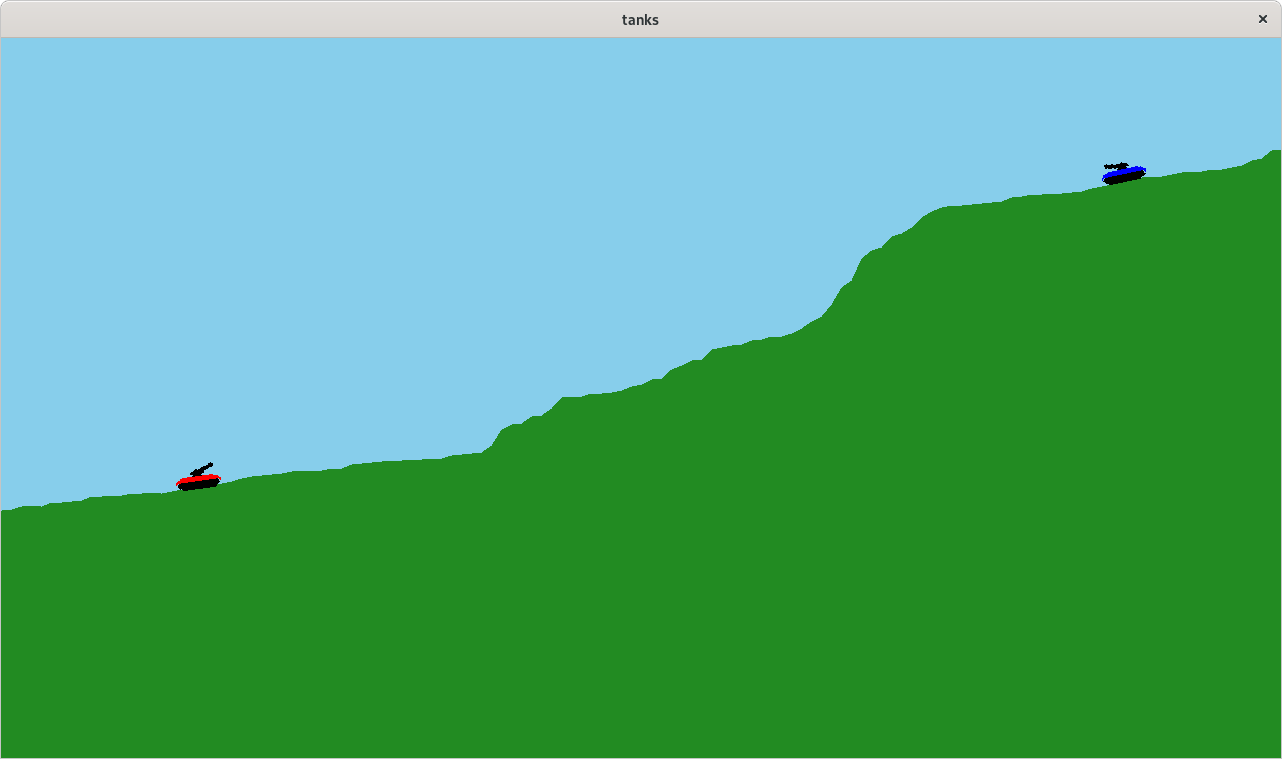
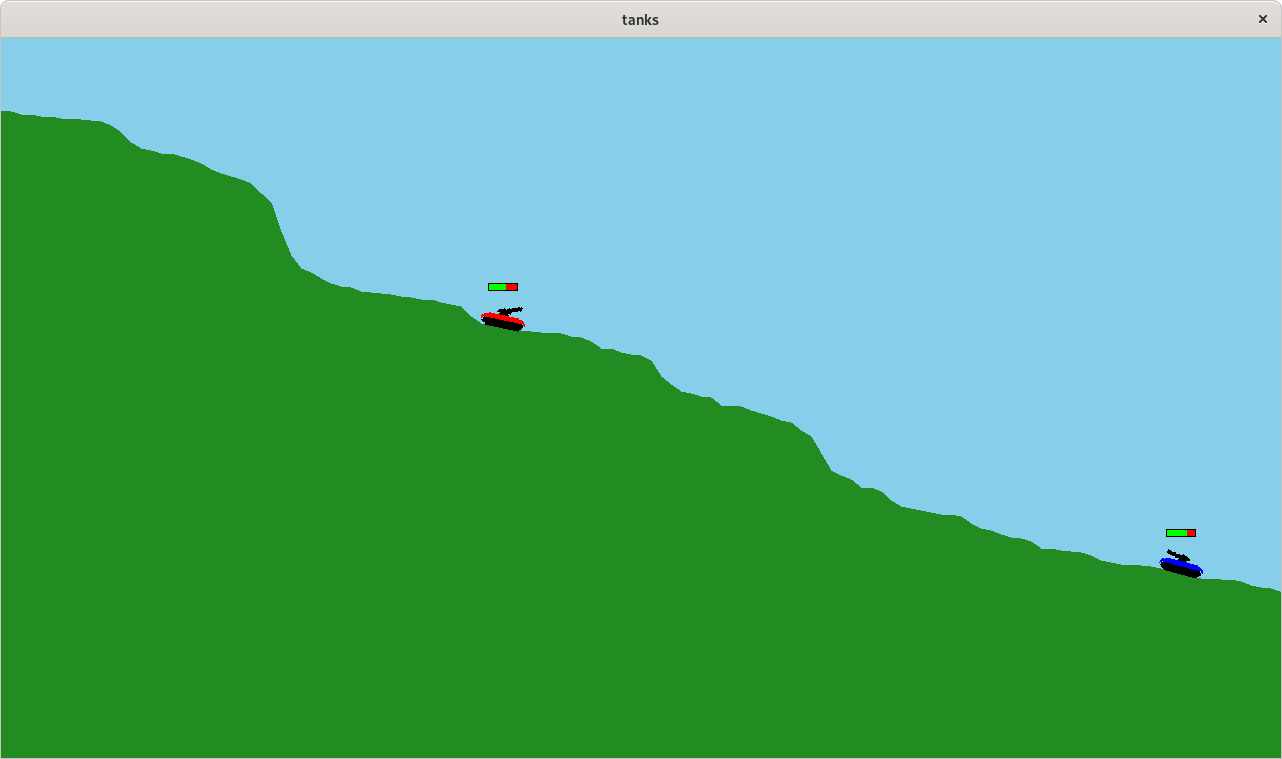
Health bars

diff --git a/src/tank.c b/src/tank.c
@@ -3,14 +3,17 @@
 //
 
 #include <math.h>
+#include <stdio.h>
 
 #include "main.h"
 #include "terrain/terrain.h"
 #include "tank.h"
+#include "bullet.h"
 
 static void calculateTankAngle(tank_s* tank, terrain_s* terrain);
 static void updateTankHitbox(tank_s* tank);
 static float calculateLinearSlope(float x1, float y1, float x2, float y2);
+static void updateTankHealthBar(tank_s* tank);
 
 void teleportTank(tank_s* tank, int x, terrain_s* terrain)
 {
@@ -27,6 +30,9 @@ void teleportTank(tank_s* tank, int x, terrain_s* terrain)
 
     // update hitbox
     updateTankHitbox(tank);
+
+    // update health bar
+    updateTankHealthBar(tank);
 }
 
 void moveTank(tank_s* tank, float amount, terrain_s* terrain)
@@ -51,13 +57,17 @@ void moveTank(tank_s* tank, float amount, terrain_s* terrain)
 
     // update hitbox
     updateTankHitbox(tank);
+
+    // update health bar
+    updateTankHealthBar(tank);
 }
 
 void applyDamageToTank(tank_s* tank, int damage)
 {
-    if (!tank->isInvincible)
+    if (!tank->isInvincible && tank->health > 0)
     {
         tank->health -= damage;
+        updateTankHealthBar(tank);
         printf("tank %d health: %d\n", tank->id, tank->health);
     }
 }
@@ -240,6 +250,21 @@ void resetAllTanksHitboxStates(tank_s tanks[])
     }
 }
 
+static void updateTankHealthBar(tank_s* tank)
+{
+    tank->healthBar.fRect.x = tank->bottomCenter.x + 9.0f * (float)sin(degToRad(tank->angle)) - tank->healthBar.fRect.w / 2;
+    tank->healthBar.fRect.y = (float)tank->rect.y;
+    tank->healthBar.rect.x = (int)tank->healthBar.fRect.x;
+    tank->healthBar.rect.y = (int)tank->healthBar.fRect.y;
+
+    tank->healthBar.filledFRect = tank->healthBar.fRect;
+    tank->healthBar.filledFRect.w = (float)tank->health / 100.0f * tank->healthBar.fRect.w;
+    tank->healthBar.filledRect.x = (int)tank->healthBar.filledFRect.x;
+    tank->healthBar.filledRect.y = (int)tank->healthBar.filledFRect.y;
+    tank->healthBar.filledRect.w = (int)tank->healthBar.filledFRect.w;
+    tank->healthBar.filledRect.h = (int)tank->healthBar.filledFRect.h;
+}
+
 static void calculateTankAngle(tank_s* tank, terrain_s* terrain)
 {
     int x1, x2, y1, y2;
@@ -314,7 +339,6 @@ static void updateTankHitbox(tank_s* tank)
     topRightVectorAngle += tankAngleRad;
     topLeftVectorAngle += tankAngleRad;
     float bottomLeftVectorAngle = -(float)M_PI + tankAngleRad; // angle of bottom center to bottom left vector
-
 
     untranslatedHitBox.bottomLeft.x = bottomLeftVectorLength * cosf(bottomLeftVectorAngle);
     untranslatedHitBox.bottomLeft.y = bottomLeftVectorLength * sinf(bottomLeftVectorAngle);

diff --git a/src/main.c b/src/main.c
@@ -105,9 +105,6 @@ static void initGame(SDL_Renderer** ren, terrain_s** terrain, textures_s* textur
     textures->tank[0].gun.angle = 80;
     textures->tank[0].gun.fAngle = (float)textures->tank[0].gun.angle;
 
-    // tank[0] spawn point
-    teleportTank(&textures->tank[0], 150, *terrain);
-
     // init tank[1]
     buffer = SDL_LoadBMP("../resources/images/blue_tank.bmp");
     if (buffer == NULL)
@@ -150,9 +147,6 @@ static void initGame(SDL_Renderer** ren, terrain_s** terrain, textures_s* textur
     textures->tank[1].gun.fAngle = (float)textures->tank[1].gun.angle;
     textures->tank[1].gun.relativePosY = textures->tank[0].gun.relativePosY;
 
-    // tank[1] spawn point
-    teleportTank(&textures->tank[1], 1280 - 150, *terrain);
-
     // init bullet
     textures->bullet.rect.w = 3;
     textures->bullet.rect.h = 3;
@@ -167,6 +161,24 @@ static void initGame(SDL_Renderer** ren, terrain_s** terrain, textures_s* textur
 
     // init hitboxes
     resetAllTanksHitboxStates(textures->tank);
+
+    // init health bars
+    textures->tank[0].healthBar.fRect.w = 30;
+    textures->tank[0].healthBar.fRect.h = 8;
+    textures->tank[0].healthBar.rect.w = 30;
+    textures->tank[0].healthBar.rect.h = 8;
+
+    textures->tank[1].healthBar.fRect.w = 30;
+    textures->tank[1].healthBar.fRect.h = 8;
+    textures->tank[1].healthBar.rect.w = 30;
+    textures->tank[1].healthBar.rect.h = 8;
+
+    // Set tank spawn points
+    // tank[0] spawn point
+    teleportTank(&textures->tank[0], 150, *terrain);
+
+    // tank[1] spawn point
+    teleportTank(&textures->tank[1], 1280 - 150, *terrain);
 }
 
 static void quitGame(textures_s* textures, terrain_s** terrain)

diff --git a/src/render.c b/src/render.c
@@ -12,6 +12,7 @@
 
 static void renderArray(SDL_Window** win, SDL_Renderer** ren, int** array, int x, int y, int width, int height, SDL_Color fg, SDL_Color bg);
 static void renderTankHitboxes(SDL_Renderer** ren, tank_s* tank);
+static void renderTankHealthBar(SDL_Renderer** ren, tank_s* tank);
 
 void render(SDL_Window** win, SDL_Renderer** ren, terrain_s* terrain, textures_s* textures)
 {
@@ -99,7 +100,24 @@ void render(SDL_Window** win, SDL_Renderer** ren, terrain_s* terrain, textures_s
                      &tankCenterPoint,
                      SDL_FLIP_NONE);
 
+    // Render health bars
+    renderTankHealthBar(ren, &textures->tank[0]);
+    renderTankHealthBar(ren, &textures->tank[1]);
+
     SDL_RenderPresent(*ren);
+}
+
+static void renderTankHealthBar(SDL_Renderer** ren, tank_s* tank)
+{
+    SDL_SetRenderDrawColor(*ren, 255, 0, 0, 255);
+    SDL_RenderFillRect(*ren, &tank->healthBar.rect);
+
+    SDL_SetRenderDrawColor(*ren, 0, 255, 0, 255);
+    SDL_RenderFillRect(*ren, &tank->healthBar.filledRect);
+
+    // Draw outline
+    SDL_SetRenderDrawColor(*ren, 0, 0, 0, 255);
+    SDL_RenderDrawRect(*ren, &tank->healthBar.rect);
 }
 
 static void renderTankHitboxes(SDL_Renderer** ren, tank_s* tank) {

diff --git a/src/bullet.c b/src/bullet.c
@@ -12,7 +12,6 @@
 
 static void calculateBulletXYSpeed(bullet_s *bullet, tank_s *tank, float speed);
 static void calculateBulletOriginPoint(bullet_s* bullet, tank_s* tank);
-static double degToRad(int deg);
 static void updateBulletPos(textures_s* textures);
 static int bulletIsOutOfBounds(bullet_s* bullet, terrain_s* terrain);
 static void deactivateBullet(textures_s* textures);
@@ -131,7 +130,7 @@ static void calculateBulletXYSpeed(bullet_s *bullet, tank_s *tank, float speed)
     //printf("angle: %d, tank angle: %d, speedX: %f, speedY: %f\n", tank->gun.angle, tank->angle, bullet->speedX, bullet->speedY);
 }
 
-static double degToRad(int deg)
+double degToRad(int deg)
 {
     return (double)deg * M_PI / 180;
 }

diff --git a/src/main.h b/src/main.h
@@ -60,6 +60,17 @@ typedef struct tankHitBox_s
     int rightColConditionMet;
 } tankHitBox_s;
 
+typedef struct healthBar_s
+{
+    // Rect of the whole health bar
+    SDL_FRect fRect;
+    SDL_Rect rect;
+
+    // Rect of the filled (green) part of the health bar
+    SDL_FRect filledFRect;
+    SDL_Rect filledRect;
+} healthBar_s;
+
 typedef struct tank_s
 {
     SDL_Texture* baseTexture; // Texture for the tank without the gun
@@ -74,6 +85,7 @@ typedef struct tank_s
     tankHitBox_s hitBox;
     int isInvincible;
     int id;
+    healthBar_s healthBar;
 } tank_s;
 
 typedef struct textures_s

diff --git a/src/bullet.h b/src/bullet.h
@@ -12,5 +12,6 @@
 
 void fireBullet(bullet_s* bullet, tank_s* tank);
 void updateBullet(textures_s* textures, terrain_s* terrain);
+double degToRad(int deg);
 
 #endif //TANKS_BULLET_H
